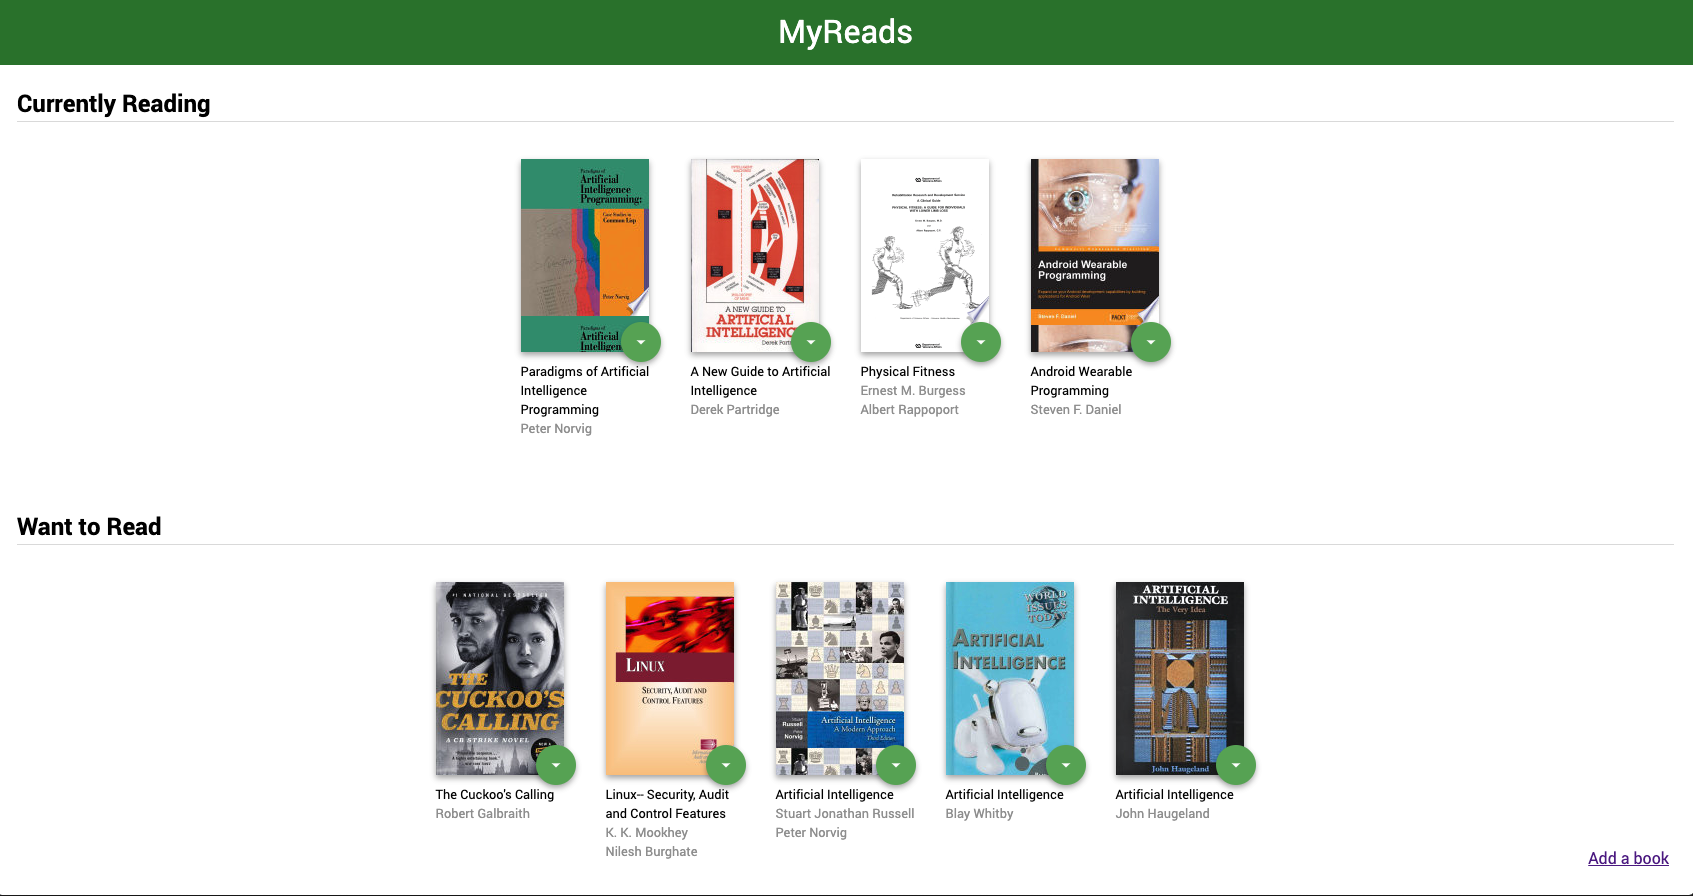
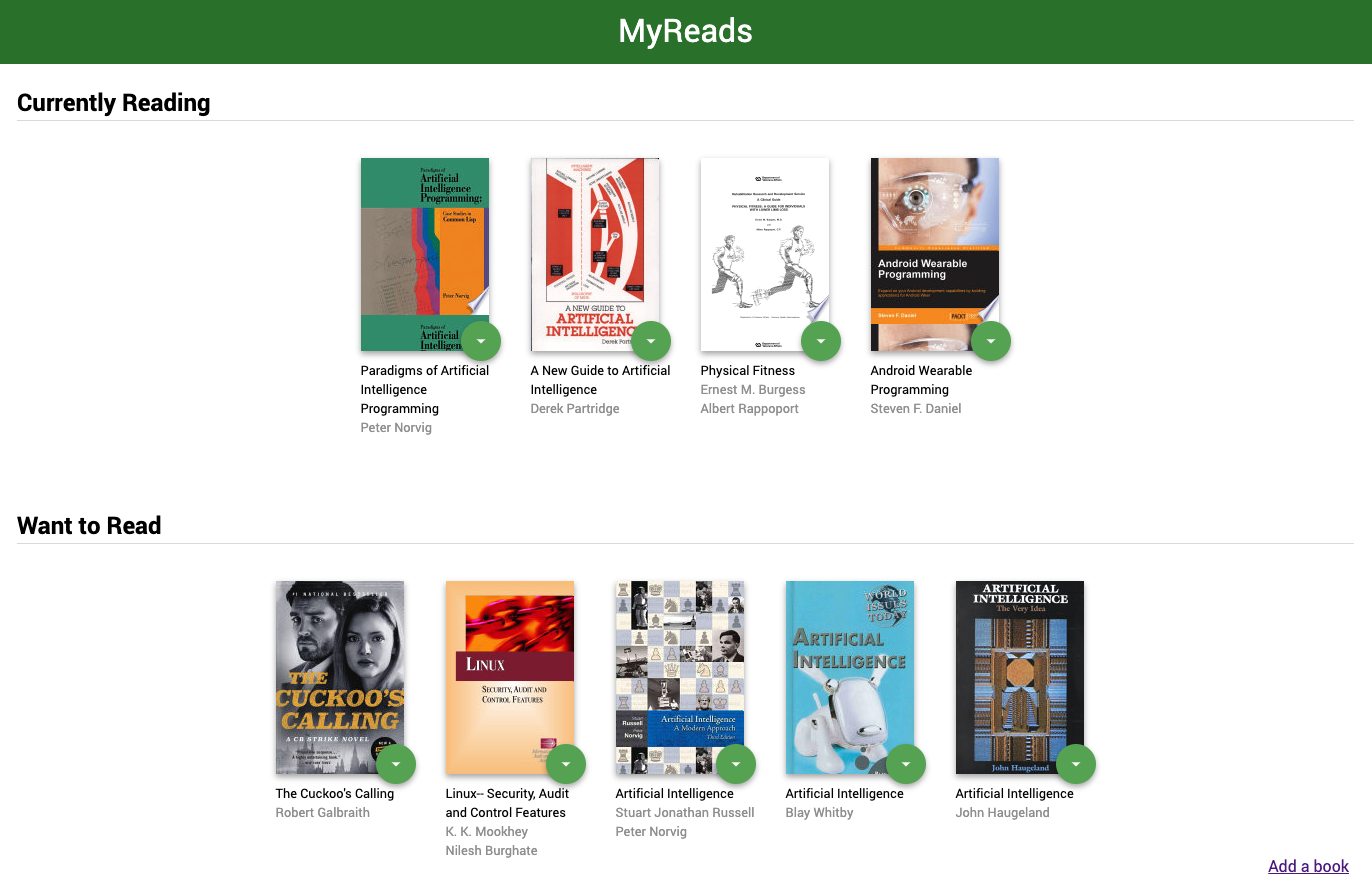
fixed img in ReadMe

diff --git a/README.md b/README.md
@@ -1,7 +1,7 @@
 # MyReads Project
 ## Description
 This is a bookshelf app that allows you to select and categorize books you have read, are currently reading, or want to read. You can also search books by keywords and add them your bookshelf.
-<img src = "./img/bookshelf.png">
+![](src/img/bookshelf.img)
 
 ## Installation
 
